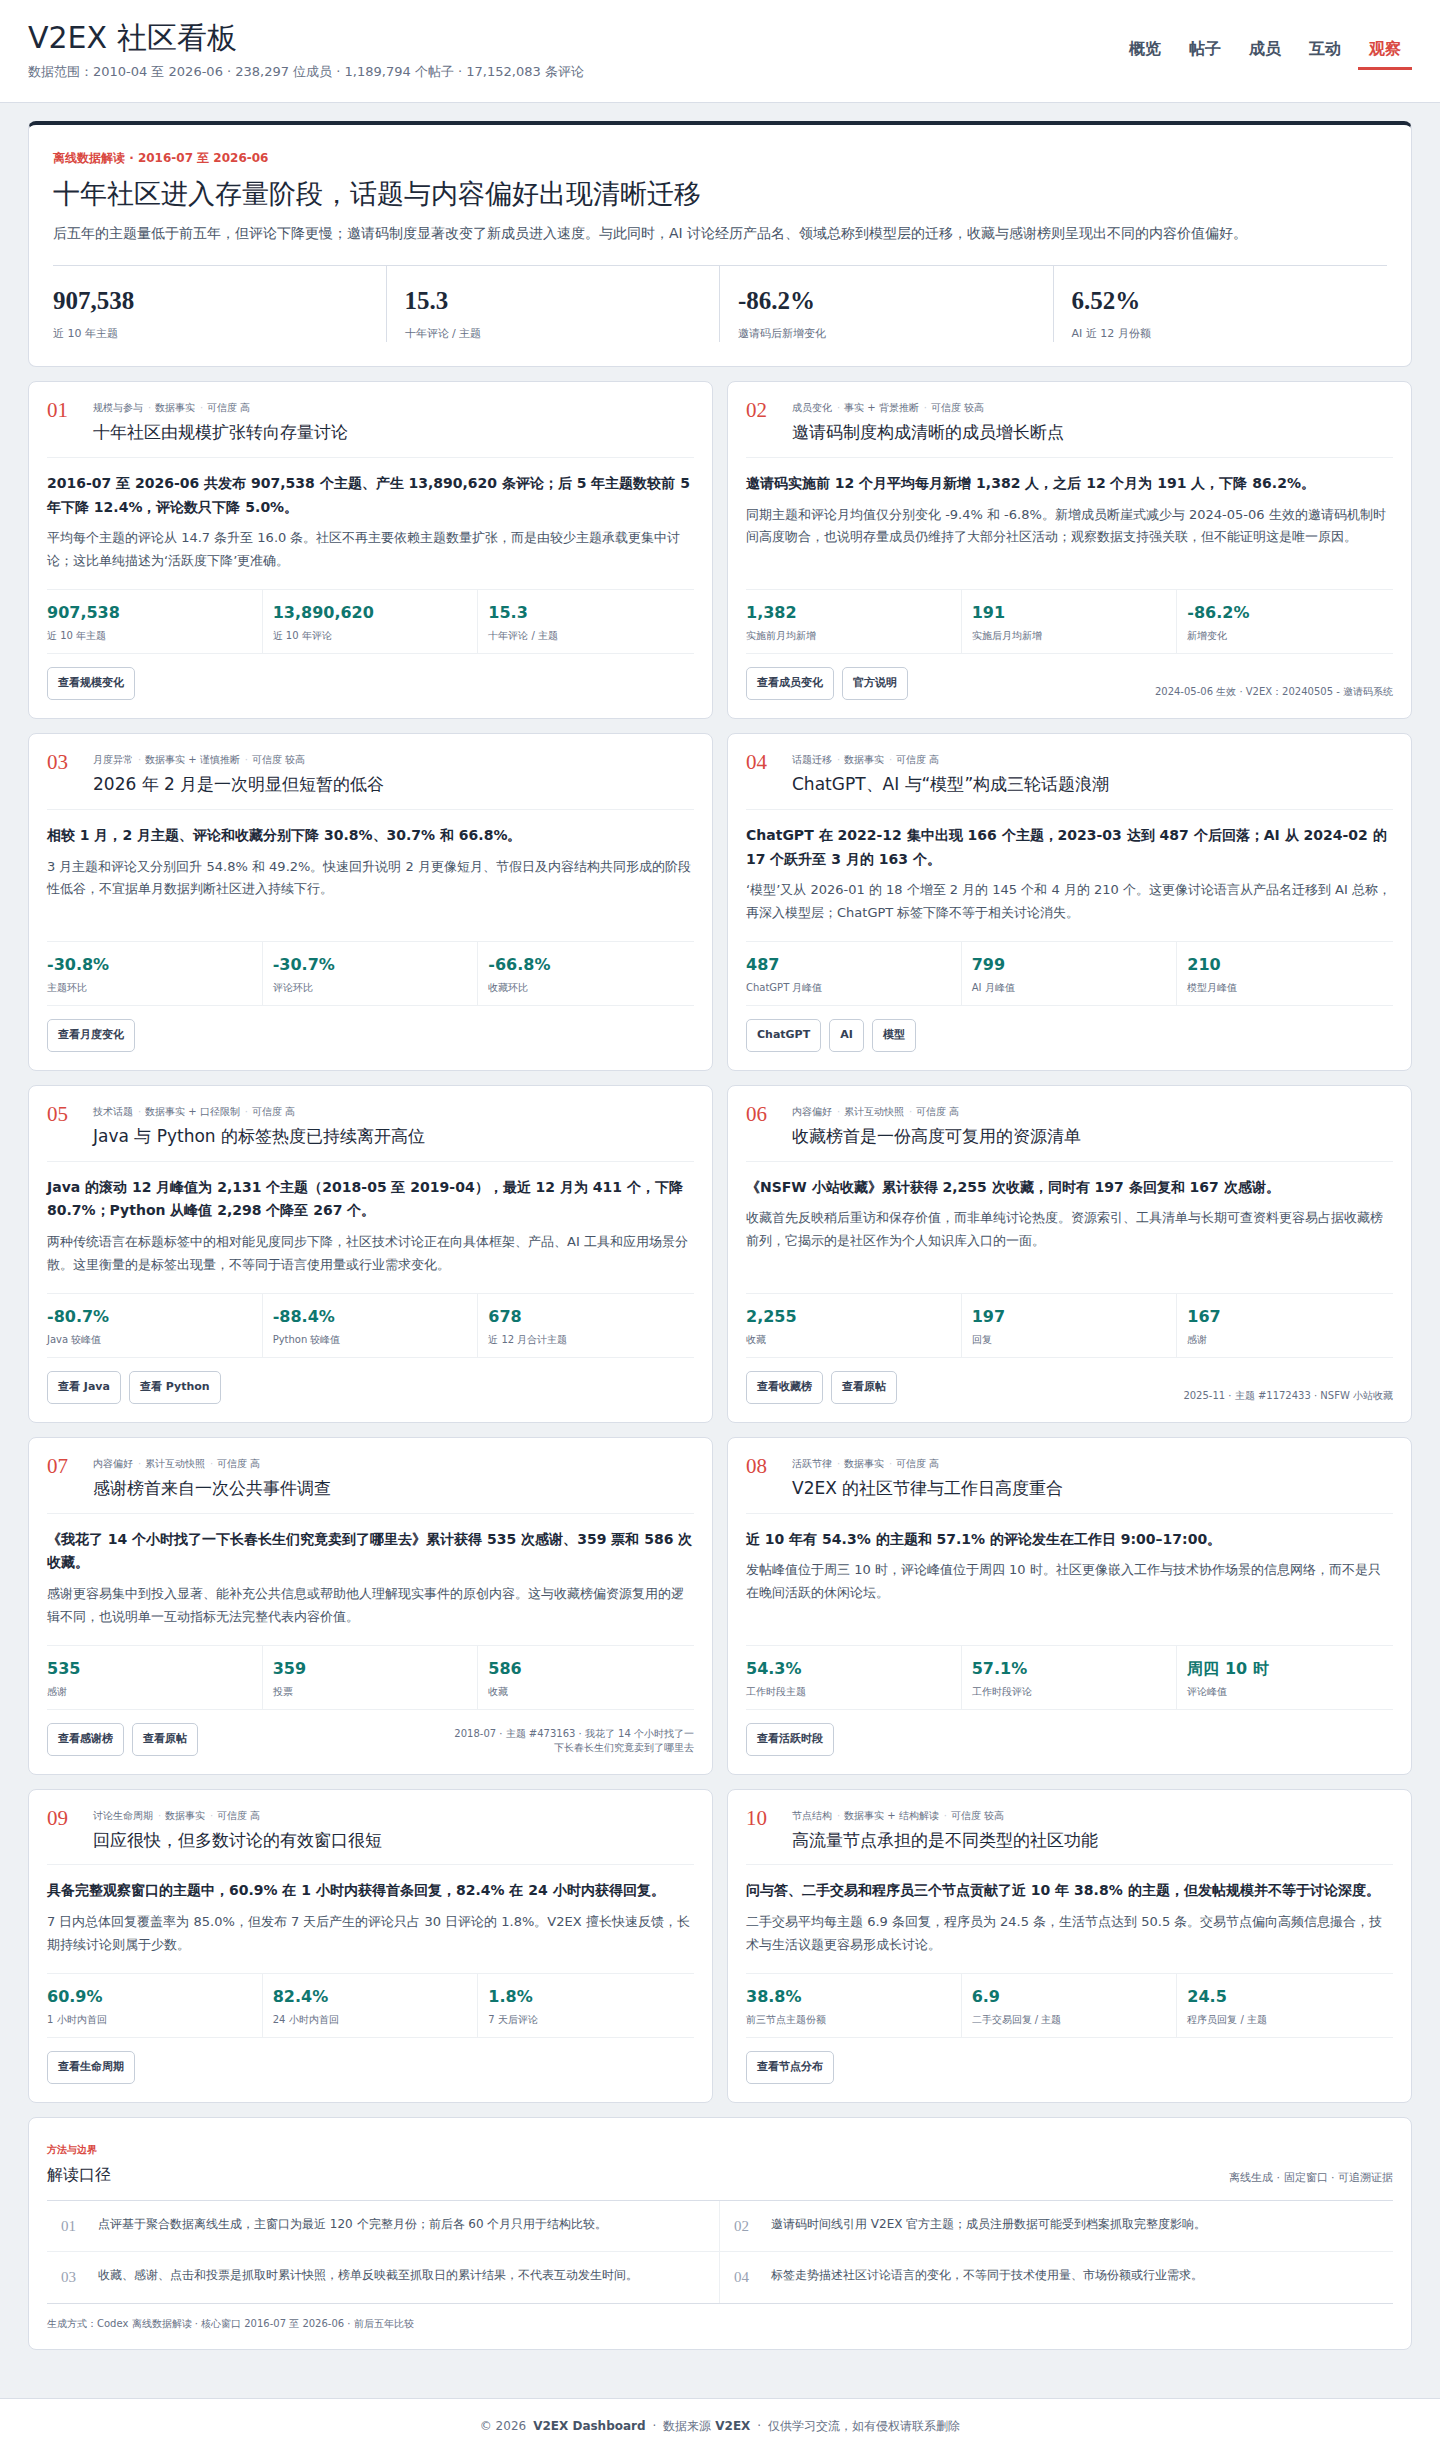
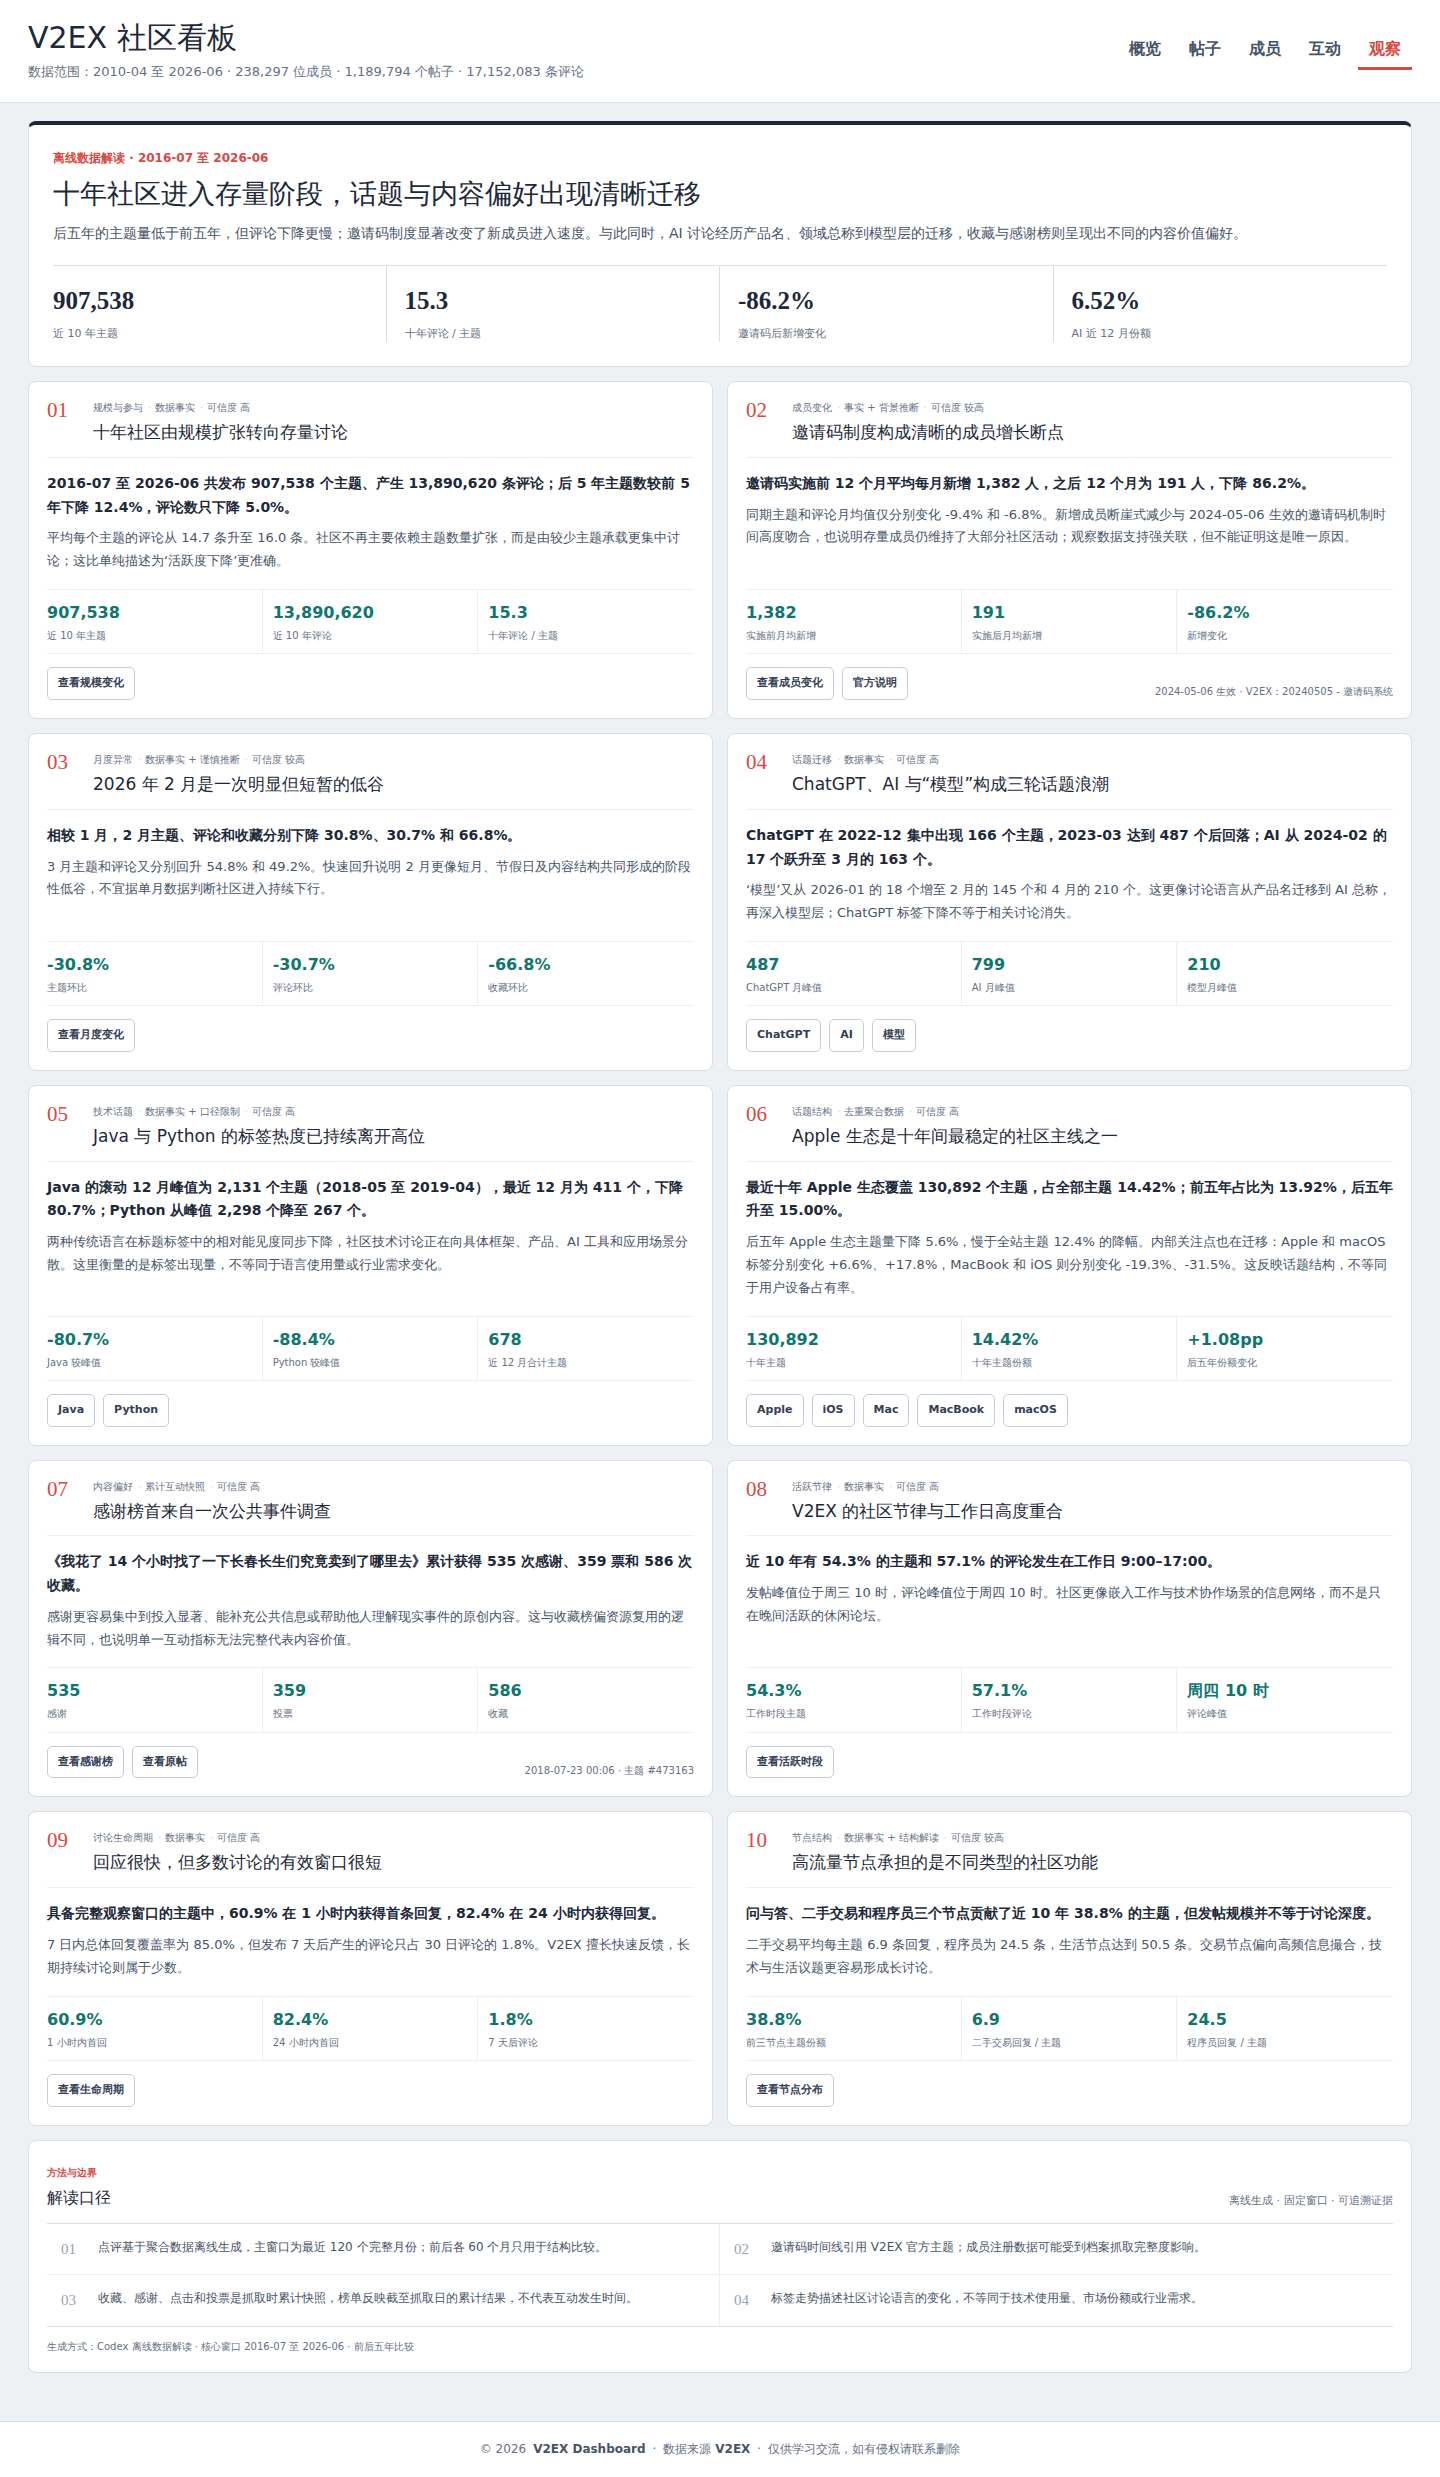
Refine observation topic insights

diff --git a/analysis/v2ex-analysis/tests/e2e/dashboard.spec.ts b/analysis/v2ex-analysis/tests/e2e/dashboard.spec.ts
@@ -40,7 +40,23 @@ test("loads core views without runtime or layout errors", async ({ page }) => {
   await expect(page.locator(".observation-item")).toHaveCount(10)
   await expect(page.locator(".filter-band")).toHaveCount(0)
   await expect(page.getByRole("link", { name: "官方说明", exact: true })).toHaveAttribute("href", "https://www.v2ex.com/t/1037849")
+  const appleObservation = page.locator(".observation-item").filter({ hasText: "Apple 生态是十年间最稳定的社区主线之一" })
+  await expect(appleObservation.getByRole("link")).toHaveText(["Apple", "iOS", "Mac", "MacBook", "macOS"])
+  const aiObservation = page.locator(".observation-item").filter({ hasText: "ChatGPT、AI 与“模型”构成三轮话题浪潮" })
+  expect(await aiObservation.getByRole("link").evaluateAll((links) => links.every((link) => link.getAttribute("href")?.endsWith("#topic-detail")))).toBe(true)
+  const languageObservation = page.locator(".observation-item").filter({ hasText: "Java 与 Python 的标签热度已持续离开高位" })
+  await expect(languageObservation.getByRole("link")).toHaveText(["Java", "Python"])
+  expect(await languageObservation.getByRole("link").evaluateAll((links) => links.every((link) => link.getAttribute("href")?.endsWith("#topic-detail")))).toBe(true)
+  const thankedObservation = page.locator(".observation-item").filter({ hasText: "感谢榜首来自一次公共事件调查" })
+  await expect(thankedObservation.locator(".observation-source")).toHaveText("2018-07-23 00:06 · 主题 #473163")
   await expect(page).toHaveURL(/tab=observations/)
+
+  await appleObservation.getByRole("link", { name: "Apple", exact: true }).click()
+  await expect(page.getByRole("heading", { name: "话题详情：Apple", exact: true })).toBeVisible()
+  await expect(page).toHaveURL(/tab=content.*tag=Apple/)
+  await expect(page).not.toHaveURL(/#topic-detail/)
+  const topicDetailTop = await page.locator("#topic-detail").evaluate((element) => element.getBoundingClientRect().top)
+  expect(Math.abs(topicDetailTop)).toBeLessThanOrEqual(24)
 
   const dimensions = await page.evaluate(() => ({
     viewport: document.documentElement.clientWidth,

diff --git a/analysis/v2ex-analysis/src/App.vue b/analysis/v2ex-analysis/src/App.vue
@@ -430,7 +430,16 @@ async function restoreDashboardUrl() {
   applyingUrlState = false
   await loadActiveData()
   await renderActiveTab()
+  await scrollToUrlAnchor()
   syncDashboardUrl("replace")
+}
+
+async function scrollToUrlAnchor() {
+  const anchor = window.location.hash.slice(1)
+  if (!anchor) return
+  await nextTick()
+  document.getElementById(anchor)?.scrollIntoView({ block: "start" })
+  window.history.replaceState({}, "", `${window.location.pathname}${window.location.search}`)
 }
 
 const previousRawPeriods = computed<PeriodMetric[]>(() => {
@@ -1716,6 +1725,7 @@ onMounted(async () => {
   loading.value = false
   await loadActiveData()
   renderActiveTab()
+  await scrollToUrlAnchor()
   urlStateReady = true
   syncDashboardUrl("replace")
 })

diff --git a/analysis/build_analytics.py b/analysis/build_analytics.py
@@ -206,6 +206,8 @@ def build_observation_output(
     current = analysis[-60:]
     previous = analysis[:60]
     current_periods = {row["period"] for row in analysis}
+    current_five_periods = {row["period"] for row in current}
+    previous_five_periods = {row["period"] for row in previous}
     current_start, current_end = analysis[0]["period"], analysis[-1]["period"]
     previous_start, previous_end = previous[0]["period"], previous[-1]["period"]
 
@@ -299,8 +301,15 @@ def build_observation_output(
         march_2026["comment_count"], february_2026["comment_count"]
     )
 
-    favorite_post = engagement["top_posts"]["favorite_count"][0]
     thanked_post = engagement["top_posts"]["thank_count"][0]
+
+    apple_rows = [row for row in topics["group_rows"] if row[1] == "apple"]
+    apple_topics = sum(row[2] for row in apple_rows if row[0] in current_periods)
+    apple_previous = sum(row[2] for row in apple_rows if row[0] in previous_five_periods)
+    apple_current = sum(row[2] for row in apple_rows if row[0] in current_five_periods)
+    apple_share = apple_topics / analysis_topics * 100
+    apple_previous_share = apple_previous / previous_topics * 100
+    apple_current_share = apple_current / current_topics * 100
 
     activity_rows = [row for row in overview["activity"] if row[0] in current_periods]
     work_topics = sum(row[3] for row in activity_rows if row[1] < 5 and 9 <= row[2] < 18)
@@ -349,11 +358,19 @@ def build_observation_output(
     def node_intensity(node: str) -> float:
         return node_totals[node][1] / node_totals[node][0]
 
-    def link(tab: str, label: str, view: str | None = None, **params) -> dict:
+    def link(
+        tab: str,
+        label: str,
+        view: str | None = None,
+        anchor: str | None = None,
+        **params,
+    ) -> dict:
         query = {"tab": tab, "from": current_start, "to": current_end, **params}
         if view:
             query["view"] = view
         href = "?" + "&".join(f"{key}={value}" for key, value in query.items())
+        if anchor:
+            href += f"#{anchor}"
         return {"label": label, "href": href}
 
     observations = [
@@ -456,9 +473,9 @@ def build_observation_output(
                 {"value": f"{tag_month('模型', '2026-04')}", "label": "模型月峰值"},
             ],
             "links": [
-                link("content", "ChatGPT", tag="ChatGPT"),
-                link("content", "AI", tag="AI"),
-                link("content", "模型", tag="模型"),
+                link("content", "ChatGPT", anchor="topic-detail", tag="ChatGPT"),
+                link("content", "AI", anchor="topic-detail", tag="AI"),
+                link("content", "模型", anchor="topic-detail", tag="模型"),
             ],
         },
         {
@@ -482,36 +499,41 @@ def build_observation_output(
                 {"value": f"{recent_java + recent_python:,}", "label": "近 12 月合计主题"},
             ],
             "links": [
-                link("content", "查看 Java", tag="Java"),
-                link("content", "查看 Python", tag="Python"),
+                link("content", "Java", anchor="topic-detail", tag="Java"),
+                link("content", "Python", anchor="topic-detail", tag="Python"),
             ],
         },
         {
-            "id": "most-favorited-post",
-            "category": "内容偏好",
-            "title": "收藏榜首是一份高度可复用的资源清单",
+            "id": "apple-mainline",
+            "category": "话题结构",
+            "title": "Apple 生态是十年间最稳定的社区主线之一",
             "summary": (
-                f"《{favorite_post['title']}》累计获得 {favorite_post['favorite_count']:,} 次收藏，"
-                f"同时有 {favorite_post['reply_count']:,} 条回复和 {favorite_post['thank_count']:,} 次感谢。"
+                f"最近十年 Apple 生态覆盖 {apple_topics:,} 个主题，占全部主题 {apple_share:.2f}%；"
+                f"前五年占比为 {apple_previous_share:.2f}%，后五年升至 {apple_current_share:.2f}%。"
             ),
             "interpretation": (
-                "收藏首先反映稍后重访和保存价值，而非单纯讨论热度。资源索引、工具清单与长期可查资料更容易占据收藏榜前列，"
-                "它揭示的是社区作为个人知识库入口的一面。"
+                f"后五年 Apple 生态主题量下降 {abs(percent_change(apple_current, apple_previous)):.1f}%，"
+                f"慢于全站主题 {abs(topic_change):.1f}% 的降幅。内部关注点也在迁移：Apple 和 macOS 标签分别变化 "
+                f"{percent_change(tag_count('Apple', current_five_periods), tag_count('Apple', previous_five_periods)):+.1f}%、"
+                f"{percent_change(tag_count('macOS', current_five_periods), tag_count('macOS', previous_five_periods)):+.1f}%，"
+                f"MacBook 和 iOS 则分别变化 {percent_change(tag_count('MacBook', current_five_periods), tag_count('MacBook', previous_five_periods)):+.1f}%、"
+                f"{percent_change(tag_count('iOS', current_five_periods), tag_count('iOS', previous_five_periods)):+.1f}%。"
+                "这反映话题结构，不等同于用户设备占有率。"
             ),
-            "evidence": "累计互动快照",
+            "evidence": "去重聚合数据",
             "confidence": "高",
             "stats": [
-                {"value": f"{favorite_post['favorite_count']:,}", "label": "收藏"},
-                {"value": f"{favorite_post['reply_count']:,}", "label": "回复"},
-                {"value": f"{favorite_post['thank_count']:,}", "label": "感谢"},
+                {"value": f"{apple_topics:,}", "label": "十年主题"},
+                {"value": f"{apple_share:.2f}%", "label": "十年主题份额"},
+                {"value": f"+{apple_current_share - apple_previous_share:.2f}pp", "label": "后五年份额变化"},
             ],
-            "source": {
-                "label": favorite_post["title"],
-                "url": f"https://www.v2ex.com/t/{favorite_post['id']}",
-                "date": f"{favorite_post['period']} · 主题 #{favorite_post['id']}",
-                "action": "查看原帖",
-            },
-            "links": [link("engagement", "查看收藏榜", postSort="favorite_count")],
+            "links": [
+                link("content", "Apple", anchor="topic-detail", tag="Apple"),
+                link("content", "iOS", anchor="topic-detail", tag="iOS"),
+                link("content", "Mac", anchor="topic-detail", tag="Mac"),
+                link("content", "MacBook", anchor="topic-detail", tag="MacBook"),
+                link("content", "macOS", anchor="topic-detail", tag="macOS"),
+            ],
         },
         {
             "id": "most-thanked-post",
@@ -533,9 +555,11 @@ def build_observation_output(
                 {"value": f"{thanked_post['favorite_count']:,}", "label": "收藏"},
             ],
             "source": {
-                "label": thanked_post["title"],
+                "label": f"主题 #{thanked_post['id']}",
                 "url": f"https://www.v2ex.com/t/{thanked_post['id']}",
-                "date": f"{thanked_post['period']} · 主题 #{thanked_post['id']}",
+                "date": datetime.fromtimestamp(
+                    thanked_post["create_at"], LOCAL_TIMEZONE
+                ).strftime("%Y-%m-%d %H:%M"),
                 "action": "查看原帖",
             },
             "links": [link("engagement", "查看感谢榜", postSort="thank_count")],

diff --git a/DATA_ANALYSIS.md b/DATA_ANALYSIS.md
@@ -74,6 +74,8 @@
 
 ### 话题结构与迁移
 
+- 最近十年 Apple 生态覆盖 130,892 个主题，占全部主题 14.42%；前五年占比为 13.92%，后五年升至 15.00%。其后五年主题量下降 5.6%，慢于全站 12.4% 的降幅，是社区最稳定的长期主线之一。
+- Apple 生态内部也在迁移：后五年 Apple、macOS 标签分别增长 6.6% 和 17.8%，MacBook、iOS 分别下降 19.3% 和 31.5%。这些标签存在主题重叠，生态总量使用聚合分组去重，不能直接相加。
 - ChatGPT 标签在 2022-12 集中出现，2023-03 达到月峰值 487 后回落；AI 从 2024-02 的 17 个主题跃升至 3 月的 163 个，并在 2026-03 达到 799 个；“模型”从 2026-01 的 18 个升至 4 月的 210 个。讨论语言呈现从产品名到领域总称、再到模型层的迁移。
 - Java 与 Python 的滚动 12 月标签量均已显著离开历史高位。该变化反映标签能见度下降，不能直接解释为语言使用量或就业需求下降。
 - 聚合话题中，编程与工程覆盖 75,094 个主题，占同期主题的 17.7%；Apple 生态占 15.0%，产品与创造占 12.9%，数码与互联网占 12.2%，AI 与智能体占 9.4%。类别允许重叠，占比不能相加。
@@ -104,7 +106,7 @@
 
 ### 互动
 
-- 全站收藏最多的主题是《NSFW 小站收藏》，累计 2,255 次收藏；全站感谢最多的主题是《我花了 14 个小时找了一下长春长生们究竟卖到了哪里去》，累计 535 次感谢。两者分别体现资源复用价值和高投入公共信息内容，不能用同一指标概括。
+- 全站感谢最多的主题是《我花了 14 个小时找了一下长春长生们究竟卖到了哪里去》，累计 535 次感谢，体现了高投入公共信息内容获得的社区认可；收藏等其他榜单仍可在互动页独立查看。
 - 2026-02 相较 1 月，主题、评论和收藏分别下降 30.8%、30.7% 和 66.8%，3 月主题与评论随即回升 54.8% 和 49.2%。这更符合短月、节假日与内容结构共同造成的阶段性低谷，不能据单月判断长期趋势。
 - 近 5 年发布的内容当前累计约 12.50 亿次点击、170.1 万次收藏、9.46 万次主题感谢、202.4 万次评论感谢和 6.10 万次投票。
 - 标准化后，每千次点击约积累 1.36 次收藏，每千次回复对应约 13.72 次主题感谢，每千个主题约积累 143.9 次投票。